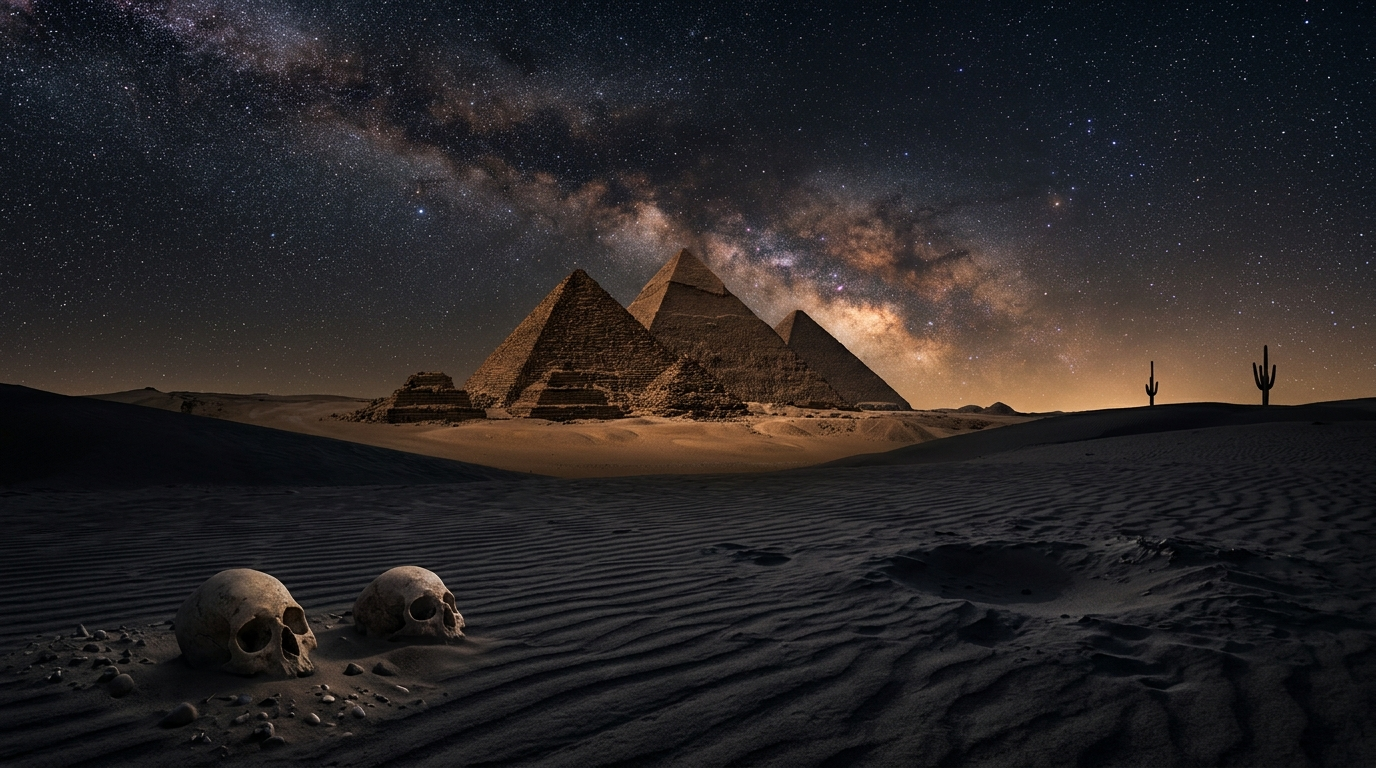
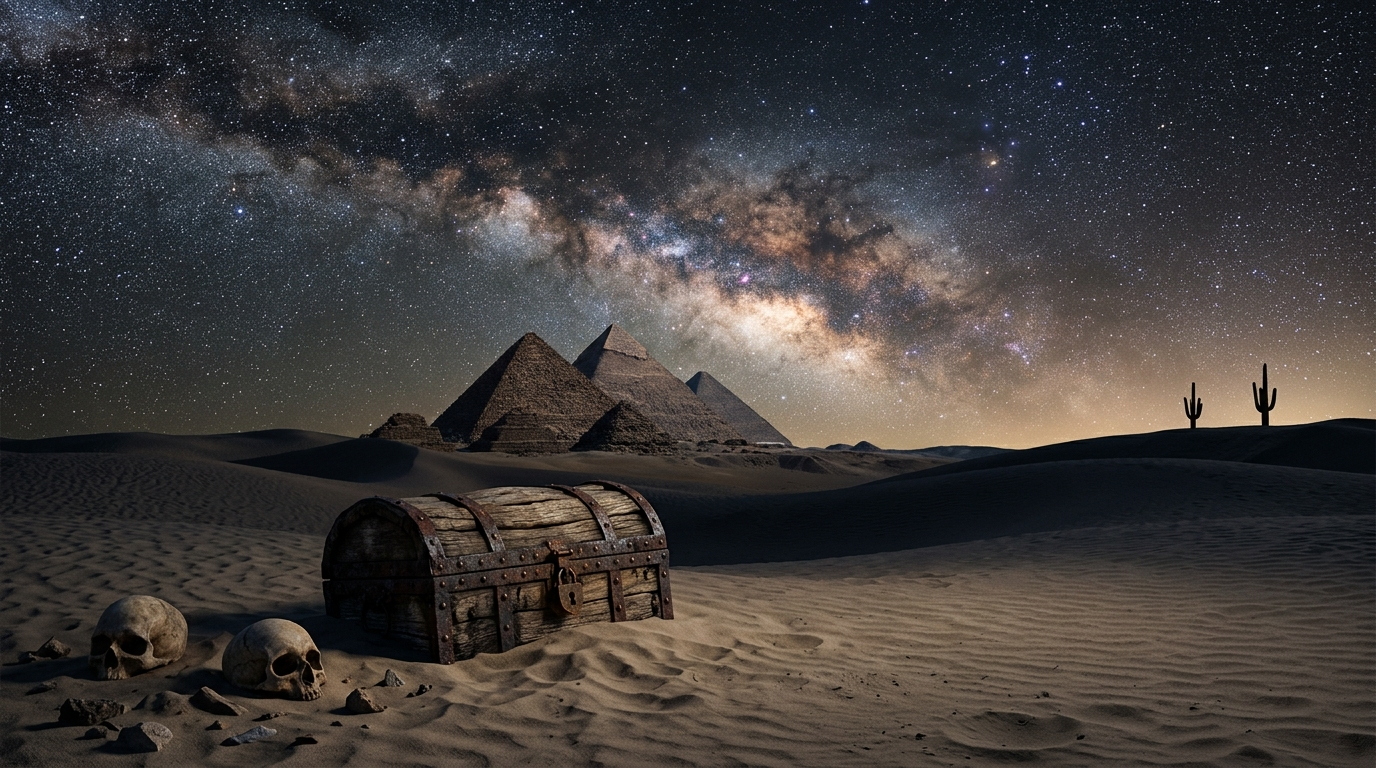
Add buried closed wooden treasure chest in sand dunes, left-side floating bubble column, and bottom landscape dune silhouette effect

diff --git a/src/components/hero/SkullBubbles.tsx b/src/components/hero/SkullBubbles.tsx
@@ -6,16 +6,16 @@ import { motion, AnimatePresence } from "framer-motion";
 interface Bubble {
   id: number;
   size: number;     // diameter in px
-  startX: number;   // initial X offset near skulls (vw)
-  driftX: number;   // sway range (px)
+  startX: number;   // initial X offset on the left side (px)
+  driftX: number;   // horizontal sway range (px)
   duration: number; // ascend duration in seconds
-  delay: number;
 }
 
 /**
  * SkullBubbles Component
- * Spawns a steady stream of colorless, translucent glass bubbles
- * rising continuously from the skulls in the sand all the way to the top of the screen.
+ * Spawns a mesmerizing stream of translucent, colorless glass bubbles along the left side
+ * of the screen, floating continuously from the skulls and buried treasure chest at the bottom
+ * all the way up to the very top of the sky.
  */
 export default function SkullBubbles() {
   const [bubbles, setBubbles] = useState<Bubble[]>([]);
@@ -26,29 +26,28 @@ export default function SkullBubbles() {
     const spawnBubble = () => {
       const newBubble: Bubble = {
         id: nextId++,
-        size: 14 + Math.random() * 28,             // 14px to 42px
-        startX: (Math.random() - 0.5) * 6,          // small offset near skull
-        driftX: 30 + (Math.random() - 0.5) * 80,    // gentle horizontal sway
-        duration: 7.0 + Math.random() * 4.0,       // 7s to 11s float to top
-        delay: 0,
+        size: 14 + Math.random() * 32,            // 14px to 46px
+        startX: (Math.random() - 0.5) * 40,        // clustered along left margin
+        driftX: 25 + (Math.random() - 0.5) * 60,   // gentle horizontal sway
+        duration: 7.5 + Math.random() * 4.5,      // 7.5s to 12s float to top
       };
 
       setBubbles((prev) => {
-        // Keep active bubble pool at up to 20 bubbles
-        const updated = [...prev.slice(-19), newBubble];
+        // Keep active bubble pool at up to 22 bubbles along left side
+        const updated = [...prev.slice(-21), newBubble];
         return updated;
       });
     };
 
     // Initial batch for immediate immersion
-    const t1 = setTimeout(spawnBubble, 200);
-    const t2 = setTimeout(spawnBubble, 600);
-    const t3 = setTimeout(spawnBubble, 1000);
+    const t1 = setTimeout(spawnBubble, 150);
+    const t2 = setTimeout(spawnBubble, 500);
+    const t3 = setTimeout(spawnBubble, 900);
 
-    // Continuous blowing cadence (every 600ms)
+    // Continuous cadence (every 550ms)
     const interval = setInterval(() => {
       spawnBubble();
-    }, 650);
+    }, 550);
 
     return () => {
       clearTimeout(t1);
@@ -62,8 +61,9 @@ export default function SkullBubbles() {
     <div
       className="absolute pointer-events-none z-[8] select-none"
       style={{
-        left: "17%",
-        bottom: "16%",
+        // Positioned along the left margin of the screen, anchored near bottom sand
+        left: "7%",
+        bottom: "10%",
       }}
     >
       <AnimatePresence>
@@ -73,20 +73,20 @@ export default function SkullBubbles() {
             initial={{
               x: b.startX,
               y: 0,
-              scale: 0.2,
+              scale: 0.15,
               opacity: 0,
             }}
             animate={{
               x: [
                 b.startX,
-                b.startX + b.driftX * 0.4 + 15,
-                b.startX + b.driftX * 0.8 - 12,
+                b.startX + b.driftX * 0.4 + 12,
+                b.startX + b.driftX * 0.8 - 10,
                 b.startX + b.driftX,
               ],
-              // Ascends all the way to top of viewport (-85vh)
-              y: [0, "-25vh", "-55vh", "-85vh"],
-              scale: [0.2, 1, 1.05, 1.1, 1.15],
-              opacity: [0, 0.85, 0.8, 0.7, 0],
+              // Ascends all the way to top of viewport (-95vh)
+              y: [0, "-30vh", "-65vh", "-95vh"],
+              scale: [0.15, 1, 1.08, 1.15, 1.25],
+              opacity: [0, 0.9, 0.85, 0.75, 0],
             }}
             transition={{
               duration: b.duration,
@@ -103,19 +103,19 @@ export default function SkullBubbles() {
             <div
               className="w-full h-full rounded-full relative"
               style={{
-                background: `radial-gradient(circle at 35% 30%, rgba(255, 255, 255, 0.55) 0%, rgba(255, 255, 255, 0.12) 40%, rgba(255, 255, 255, 0.04) 75%, rgba(255, 255, 255, 0.25) 100%)`,
+                background: `radial-gradient(circle at 35% 30%, rgba(255, 255, 255, 0.6) 0%, rgba(255, 255, 255, 0.14) 40%, rgba(255, 255, 255, 0.04) 75%, rgba(255, 255, 255, 0.3) 100%)`,
                 boxShadow: `
-                  inset 0 0 ${b.size * 0.25}px rgba(255, 255, 255, 0.7),
-                  inset 1px 1px 3px rgba(255, 255, 255, 0.9),
-                  0 0 ${b.size * 0.2}px rgba(255, 255, 255, 0.25)
+                  inset 0 0 ${b.size * 0.25}px rgba(255, 255, 255, 0.75),
+                  inset 1px 1px 3px rgba(255, 255, 255, 0.95),
+                  0 0 ${b.size * 0.25}px rgba(255, 255, 255, 0.3)
                 `,
-                border: "1px solid rgba(255, 255, 255, 0.45)",
+                border: "1px solid rgba(255, 255, 255, 0.5)",
                 backdropFilter: "blur(0.5px)",
               }}
             >
               {/* Crescent Specular Glint (Top Left) */}
               <div
-                className="absolute rounded-full bg-white/90"
+                className="absolute rounded-full bg-white/95"
                 style={{
                   top: "16%",
                   left: "20%",
@@ -128,7 +128,7 @@ export default function SkullBubbles() {
 
               {/* Secondary Glint (Bottom Right) */}
               <div
-                className="absolute rounded-full bg-white/60"
+                className="absolute rounded-full bg-white/70"
                 style={{
                   bottom: "18%",
                   right: "22%",

diff --git a/src/components/sections/HomeSections.tsx b/src/components/sections/HomeSections.tsx
@@ -93,8 +93,11 @@ export function FeaturedSection() {
 /** Homepage section 4: About teaser */
 export function AboutTeaser() {
   return (
-    <section className="relative bg-primary-950 py-28 md:py-40 px-6">
-      <div className="max-w-4xl mx-auto grid grid-cols-1 md:grid-cols-2 gap-16 items-center">
+    <section className="relative bg-primary-950 py-28 md:py-40 px-6 overflow-hidden">
+      {/* Background starlight ambient glow */}
+      <div className="absolute inset-0 bg-[radial-gradient(circle_at_center,_var(--tw-gradient-stops))] from-accent-500/5 via-transparent to-transparent pointer-events-none" />
+
+      <div className="max-w-4xl mx-auto grid grid-cols-1 md:grid-cols-2 gap-16 items-center relative z-10">
         {/* Left: text */}
         <div>
           <ScrollReveal direction="left" duration={0.8}>
@@ -102,7 +105,7 @@ export function AboutTeaser() {
               The Sanctuary
             </p>
             <h2 className="font-cinzel text-accent-300 text-2xl md:text-4xl tracking-[0.12em] font-normal leading-snug mb-6">
-              At the Intersection of Ancient Wisdom & Cosmic Wonder
+              At the Intersection of Ancient Wisdom &amp; Cosmic Wonder
             </h2>
           </ScrollReveal>
           <ScrollReveal direction="left" duration={0.8} delay={0.15}>
@@ -145,6 +148,12 @@ export function AboutTeaser() {
 /** Homepage section 5: Latest from journal */
 const latestPosts = [
   {
+    title: "THE LIFE AND TIMES",
+    category: "Reflections",
+    date: "September 2026",
+    href: "/blog/the-life-and-times",
+  },
+  {
     title: "The Night Sky as Sacred Text",
     category: "Astronomy",
     date: "August 2026",
@@ -156,18 +165,19 @@ const latestPosts = [
     date: "July 2026",
     href: "/blog/sacred-geometry-and-consciousness",
   },
-  {
-    title: "Desert, Dust, and Deep Time",
-    category: "Reflections",
-    date: "June 2026",
-    href: "/blog/desert-dust-and-deep-time",
-  },
 ];
 
 export function JournalPreview() {
   return (
-    <section className="relative bg-primary-900/20 py-24 md:py-36 px-6 section-fade">
-      <div className="max-w-3xl mx-auto">
+    <section className="relative bg-[radial-gradient(ellipse_at_bottom,_var(--tw-gradient-stops))] from-accent-500/10 via-primary-900/40 to-primary-950 py-24 md:py-36 px-6 section-fade overflow-hidden">
+      {/* Landscape Dune Ridge Silhouette Effect at Bottom */}
+      <div aria-hidden="true" className="absolute bottom-0 left-0 right-0 h-32 opacity-20 pointer-events-none z-0">
+        <svg viewBox="0 0 1440 320" className="w-full h-full text-accent-500/40 fill-current preserve-3d">
+          <path d="M0,192L60,181.3C120,171,240,149,360,154.7C480,160,600,192,720,202.7C840,213,960,203,1080,186.7C1200,171,1320,149,1380,138.7L1440,128L1440,320L1380,320C1320,320,1200,320,1080,320C960,320,840,320,720,320C600,320,480,320,360,320C240,320,120,320,60,320L0,320Z" />
+        </svg>
+      </div>
+
+      <div className="max-w-3xl mx-auto relative z-10">
         <ScrollReveal direction="up" duration={0.8} className="text-center mb-14">
           <p className="font-manrope text-accent-500/60 text-[0.65rem] tracking-[0.3em] uppercase mb-4">
             Latest Writing
@@ -182,7 +192,7 @@ export function JournalPreview() {
             <ScrollReveal key={post.href} direction="up" duration={0.7} delay={i * 0.1}>
               <a
                 href={post.href}
-                className="group flex items-center justify-between bg-primary-950 hover:bg-primary-900/40 px-8 py-6 transition-colors duration-300 border-b border-accent-500/10 last:border-0"
+                className="group flex items-center justify-between bg-primary-950/80 hover:bg-primary-900/60 px-8 py-6 transition-colors duration-300 border-b border-accent-500/10 last:border-0 backdrop-blur-sm"
               >
                 <div>
                   <span className="font-manrope text-accent-500/60 text-[0.6rem] tracking-[0.2em] uppercase block mb-2">

diff --git a/src/components/hero/LunarDesertLayer.tsx b/src/components/hero/LunarDesertLayer.tsx
@@ -4,12 +4,11 @@ import Image from "next/image";
 
 /**
  * LunarDesertLayer
- * Unified, contemplative cinematic landscape:
- * - Wind-rippled desert floor with subtle lunar crater contours
- * - Two ancient weathered skulls resting quietly at the lower-left periphery
- * - Stone pyramids rising from the desert in the midground under the Milky Way
- * - Exactly two solitary saguaro cacti silhouettes seen far away on the horizon
- * - Warm antique gold starlight highlights on the dunes
+ * Cinematic vertical landscape environment:
+ * - Upper sky: Vast cosmic sky and glowing Milky Way
+ * - Midground: Ancient stone pyramids and 2 distant cacti silhouettes on right horizon
+ * - Foreground sand: Weathered wooden treasure chest bound with dark iron, closed and deep-buried in the sand
+ * - Lower periphery: Two ancient weathered skulls half-buried in sand ripples
  */
 export default function LunarDesertLayer() {
   return (
@@ -19,15 +18,15 @@ export default function LunarDesertLayer() {
     >
       <Image
         src="/hero/lunar-desert-landscape.jpg"
-        alt="Ancient pyramids and desert dunes with lunar craters, two skulls at the periphery, and two distant cacti under starry sky"
+        alt="Ancient pyramids, closed deep-buried treasure chest in sand dunes, two skulls at periphery under cosmic sky"
         fill
         priority
         unoptimized
-        className="object-cover object-bottom"
+        className="object-cover object-center md:object-bottom"
         sizes="100vw"
       />
 
-      {/* Very subtle top cosmic atmosphere blend - keeps sky dark while leaving ground fully illuminated */}
+      {/* Subtle top cosmic atmosphere blend */}
       <div className="absolute top-0 left-0 right-0 h-48 bg-gradient-to-b from-primary-950/60 via-primary-950/20 to-transparent" />
     </div>
   );
